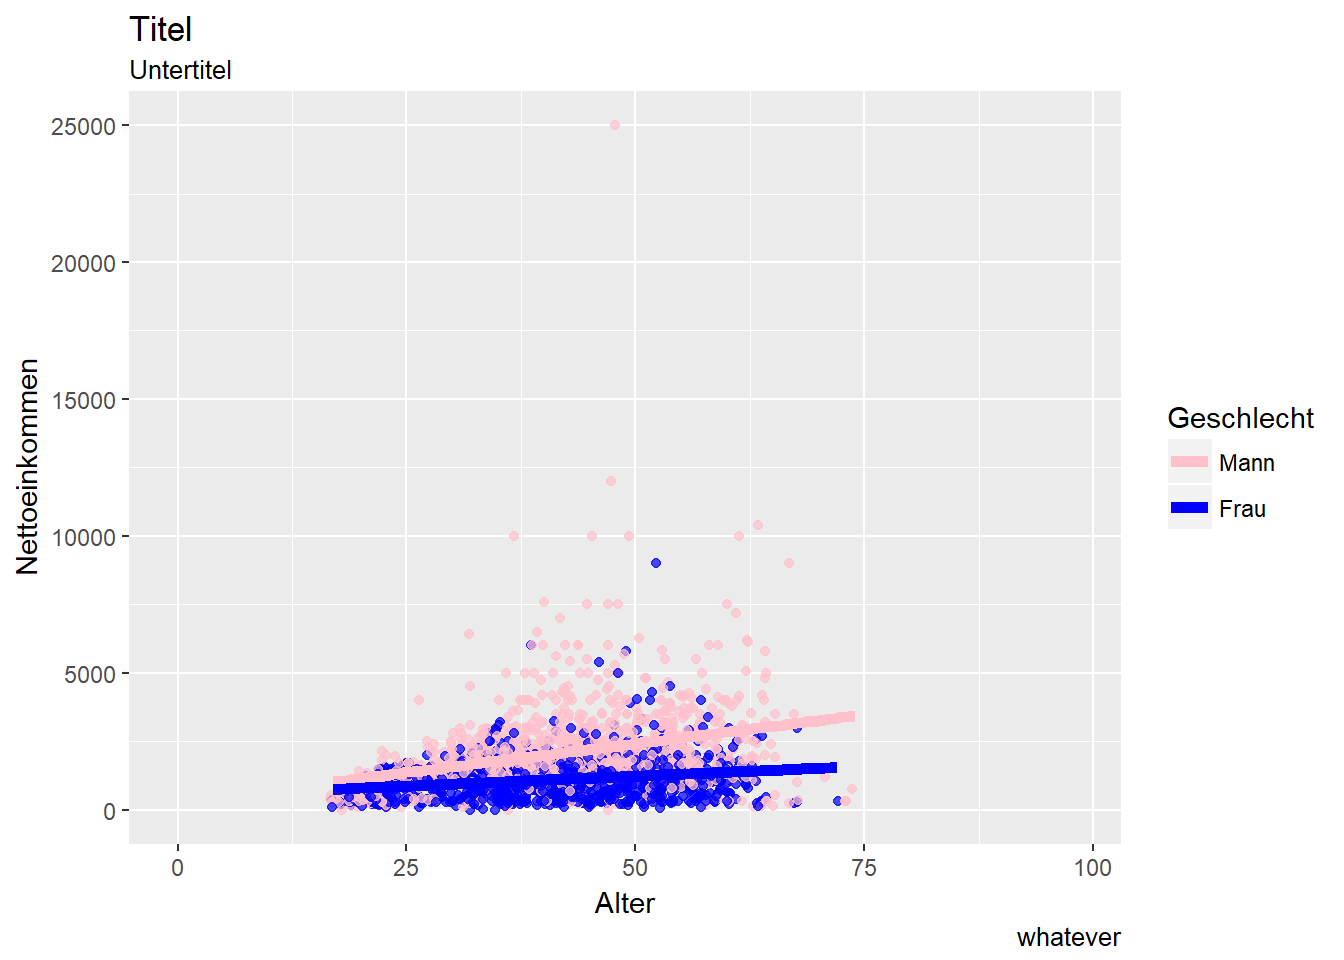
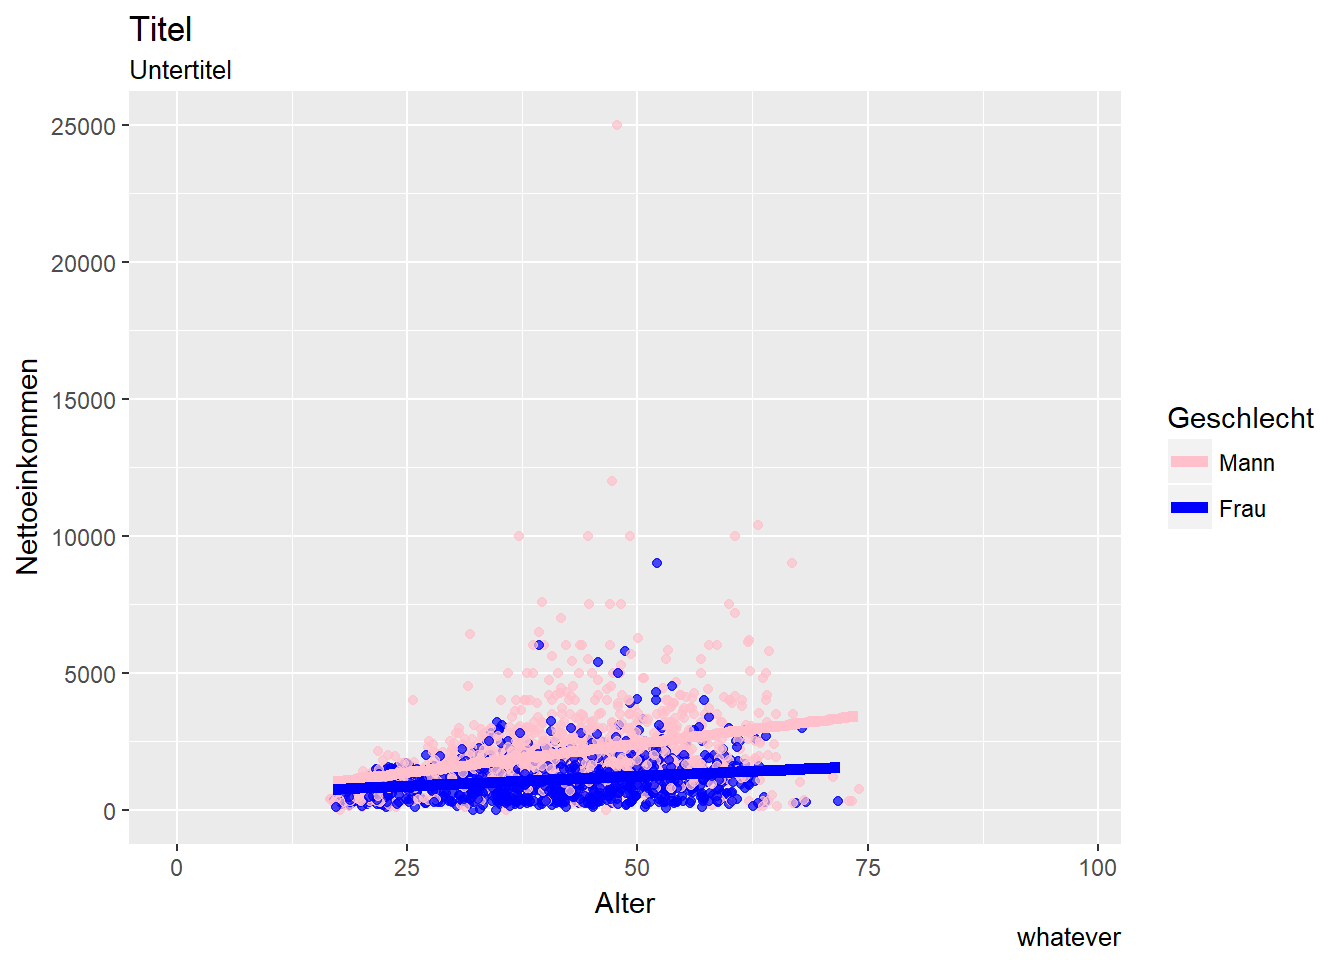
cvs online

diff --git a/docs/datamanagement.html b/docs/datamanagement.html
@@ -383,12 +383,12 @@ econ$netinc = recode(econ$tp7602,&quot;-3=NA;-2=NA;-1=NA&quot;)
 econ_data &lt;- econ[,c(&quot;netinc&quot;,&quot;alter&quot;,&quot;sex&quot;,&quot;contract&quot;,&quot;actual&quot;,&quot;trust&quot;,&quot;rely&quot;)]
 head(econ_data)</code></pre>
 <pre><code>##       netinc alter      sex contract actual trust rely
-## 2810      NA    46 männlich       NA     NA    NA   NA
-## 238       NA    80 weiblich       NA     NA     3    1
-## 5455    1500    41 männlich       40     50     3    2
-## 7695      NA    30 weiblich       NA     NA     1    4
-## 2577      NA     3 männlich       NA     NA    NA   NA
-## 14127     NA    13 männlich       NA     NA    NA   NA</code></pre>
+## 164       NA    62 männlich       NA     NA     3    3
+## 1112      NA    17 weiblich       NA     NA    NA   NA
+## 3849      NA    37 weiblich       NA     NA     3    2
+## 14274   6000    52 männlich       60     65     3    3
+## 12011   2118    58 männlich       40     30     2    2
+## 7482     310    20 männlich       38     38     3    2</code></pre>
 <pre class="r"><code># Delete NAs
 econ_data &lt;- na.omit(econ_data)
 
@@ -398,7 +398,7 @@ hist(econ$netinc)</code></pre>
 <p><img src="datamanagement_files/figure-html/unnamed-chunk-2-1.png" width="672" /></p>
 <pre class="r"><code>quantile(econ_data$netinc)</code></pre>
 <pre><code>##    0%   25%   50%   75%  100% 
-##     0   800  1337  1900 10000</code></pre>
+##    45   800  1370  1950 10000</code></pre>
 <pre class="r"><code>econ_data$inc_kat &lt;- NA
 econ_data$inc_kat [econ_data$netinc &lt; quantile(econ_data$netinc)[2]] &lt;- &quot;Q1&quot;
 econ_data$inc_kat [econ_data$netinc &gt;= quantile(econ_data$netinc)[2] &amp; econ_data$netinc &lt; quantile(econ_data$netinc)[3]] &lt;- &quot;Q2&quot;
@@ -408,7 +408,7 @@ econ_data$inc_kat [econ_data$netinc &gt;= quantile(econ_data$netinc)[4] ] &lt;- 
 table(econ_data$inc_kat)</code></pre>
 <pre><code>## 
 ##  Q1  Q2  Q3  Q4 
-## 388 427 405 410</code></pre>
+## 421 436 426 432</code></pre>
 </div>
 <div id="advanced-dm-the-tidyverse" class="section level1">
 <h1><span class="header-section-number">3</span> Advanced DM: The tidyverse</h1>
@@ -422,12 +422,12 @@ table(econ_data$inc_kat)</code></pre>
 
 head(econ_data)</code></pre>
 <pre><code>##   netinc alter      sex contract actual trust rely inc_kat alter_squared
-## 1   1500    41 männlich     40.0   50.0     3    2      Q3          1681
-## 2    700    36 weiblich     25.0   25.0     3    3      Q1          1296
-## 3    658    42 weiblich     24.0   30.0     3    2      Q1          1764
-## 4   1922    60 männlich     38.5   38.5     2    2      Q4          3600
-## 5   1240    27 weiblich     38.5   41.0     3    3      Q2           729
-## 6   2000    56 weiblich     27.0   45.0     2    3      Q4          3136</code></pre>
+## 1   6000    52 männlich       60     65     3    3      Q4          2704
+## 2   2118    58 männlich       40     30     2    2      Q4          3364
+## 3    310    20 männlich       38     38     3    2      Q1           400
+## 4    550    44 weiblich       27     27     2    3      Q1          1936
+## 5    900    23 weiblich       32     34     2    3      Q2           529
+## 6   1885    63 männlich       35     40     2    2      Q3          3969</code></pre>
 </div>
 <div id="summarise" class="section level2">
 <h2><span class="header-section-number">3.2</span> Summarise</h2>
@@ -436,7 +436,7 @@ head(econ_data)</code></pre>
   summarise(mean = mean(alter,na.rm = T),
             sd = sd(alter,na.rm = T))</code></pre>
 <pre><code>##       mean       sd
-## 1 40.49325 11.57184</code></pre>
+## 1 40.70321 11.54803</code></pre>
 </div>
 <div id="group_by" class="section level2">
 <h2><span class="header-section-number">3.3</span> group_by</h2>
@@ -448,7 +448,7 @@ head(econ_data)</code></pre>
 <pre><code>## # A tibble: 1 x 2
 ##    mean    sd
 ##   &lt;dbl&gt; &lt;dbl&gt;
-## 1  40.5  11.6</code></pre>
+## 1  40.7  11.5</code></pre>
 </div>
 </div>
 

diff --git a/docs/cvs.html b/docs/cvs.html
@@ -314,19 +314,9 @@ div.tocify {
 
 
 <p>More about this website.</p>
-<hr />
-<div class="figure">
-<embed src="CV_Schliebs.pdf%20=100x" />
-<p class="caption">CV Schliebs</p>
-</div>
-<div class="figure">
-<embed src="CV_Messerschmidt.pdf" />
-<p class="caption">CV Messerschmidt</p>
-</div>
-<div class="figure">
-<embed src="CV_Fritz.pdf=50x" />
-<p class="caption">CV Fritz</p>
-</div>
+<p>Click here for our CVs: <a href="https://github.com/schliebs/Applied_Econometrics_with_R/blob/master/CV_Schliebs.pdf">CV Schliebs</a></p>
+<p><a href="https://github.com/schliebs/Applied_Econometrics_with_R/blob/master/CV_Messerschmidt.pdf">CV Messerschmidt</a></p>
+<p><a href="https://github.com/schliebs/Applied_Econometrics_with_R/blob/master/CV_Fritz.pdf">CV Fritz</a></p>
 
 
 
